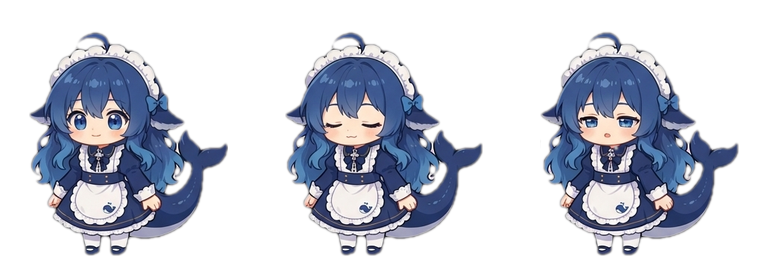
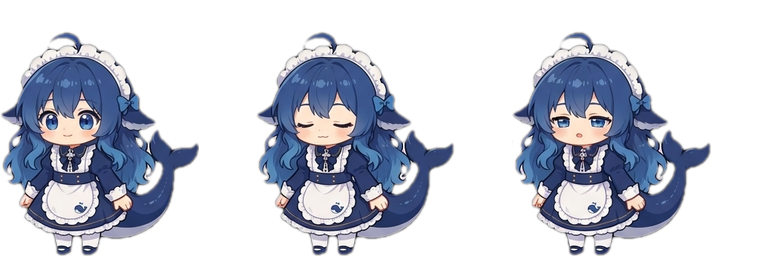
fix(assets): 固定窗口配准（角色中心锚定）+ drag 减为 2 帧
- working 细微抖动：改用固定窗口注册——每帧裁以自己角色为中心的固定尺寸窗口（跨帧一致 → 无裁剪边界抖动），角色中心钉死
- 修复 union 对多帧状态的错误（walk 4帧横排时 union 覆盖整行 940px 导致溢出）
- drag 太乱：3 帧差异大（正常/大幅左倾/张臂），按原提示词意图减为 2 帧（正常+左倾），fps 6→5
- 结果：13 状态角色中心漂移全部 0~1.0px（walk 0.5、working 0.5、idle 1.0）
- 验证：web 无崩溃、冒烟 OK

diff --git a/scripts/slice-sheet.py b/scripts/slice-sheet.py
@@ -412,32 +412,51 @@ def build_sheet_from_comps(band, comps, state_centers, my_center, size, row_y0, 
     if hmax <= 0:
         return None, 0
     s = (size * scale) / hmax
+    # 固定窗口配准（标准 sprite 注册）：每帧裁"以自己角色为中心的固定尺寸窗口"。
+    # - 窗口尺寸跨帧一致（左右留白 L/R、上下留白 T/B 取各帧相对角色的最大值）→ 无裁剪边界抖动；
+    # - 窗口中心随各自角色 → 角色本体钉死（锚点配准），装饰件围绕浮动。
+    char_w_max = max(bb[2] - bb[0] for _, bb, _ in my_frames)
+    char_h_max = max(bb[3] - bb[1] for _, bb, _ in my_frames)
+    L = R = T = B = 0
+    for i, (a, cbb, _) in enumerate(my_frames):
+        ex0, ey0, ex1, ey1 = cbb
+        for dbb in attach[i]:
+            ex0 = min(ex0, dbb[0])
+            ey0 = min(ey0, dbb[1])
+            ex1 = max(ex1, dbb[2])
+            ey1 = max(ey1, dbb[3])
+        cx = (cbb[0] + cbb[2]) / 2
+        cy1 = cbb[3]
+        L = max(L, cx - ex0)
+        R = max(R, ex1 - cx)
+        T = max(T, cbb[1] - ey0)
+        B = max(B, ey1 - cy1)
+    s = (size * scale) / char_h_max
     norm = []
     for i, (a, cbb, _) in enumerate(my_frames):
-        x0, y0, x1, y1 = cbb
-        for dbb in attach[i]:
-            x0 = min(x0, dbb[0])
-            y0 = min(y0, dbb[1])
-            x1 = max(x1, dbb[2])
-            y1 = max(y1, dbb[3])
-        f = band.crop((x0, y0, x1, y1))
+        cx = (cbb[0] + cbb[2]) / 2
+        cy1 = cbb[3]
+        w0 = max(0, round(cx - L))
+        w1 = min(band.width, round(cx + R))
+        h0 = max(0, round(cy1 - char_h_max - T))
+        h1 = min(band.height, round(cy1 + B))
+        f = band.crop((w0, h0, w1, h1))
         fw = max(1, round(f.width * s))
         fh = max(1, round(f.height * s))
         if f.size != (fw, fh):
             f = f.resize((fw, fh), Image.LANCZOS)
-        norm.append((f, cbb, (x0, y0)))
-    sheet = Image.new('RGBA', (size * len(norm), size), (0, 0, 0, 0))
-    for i, (f, cbb, (x0, y0)) in enumerate(norm):
-        # 锚点配准（角色本体不动，装饰件围绕浮动——杜绝装饰件引起的左右晃动）：
-        # x = 角色中心对齐画布中心 128；y = 角色脚底对齐画布底部。
-        char_cx = round(((cbb[0] + cbb[2]) / 2 - x0) * s)
-        char_bot = round((cbb[3] - y0) * s)
-        px = 128 - char_cx
-        py = size - char_bot
+        # 角色中心 x 在窗口内 = L + char_w/2；角色底在窗口内 = T + char_h
+        char_cx_in = (L + (cbb[2] - cbb[0]) / 2) * s
+        char_bot_in = (T + (cbb[3] - cbb[1])) * s
+        px = round(128 - char_cx_in)
+        py = round(size - char_bot_in)
         px = min(px, size - f.width)
         py = min(py, size - f.height)
         px = max(px, 0)
         py = max(py, 0)
+        norm.append((f, px, py))
+    sheet = Image.new('RGBA', (size * len(norm), size), (0, 0, 0, 0))
+    for i, (f, px, py) in enumerate(norm):
         sheet.paste(f, (i * size + px, py), f)
     return sheet, len(norm)
 
